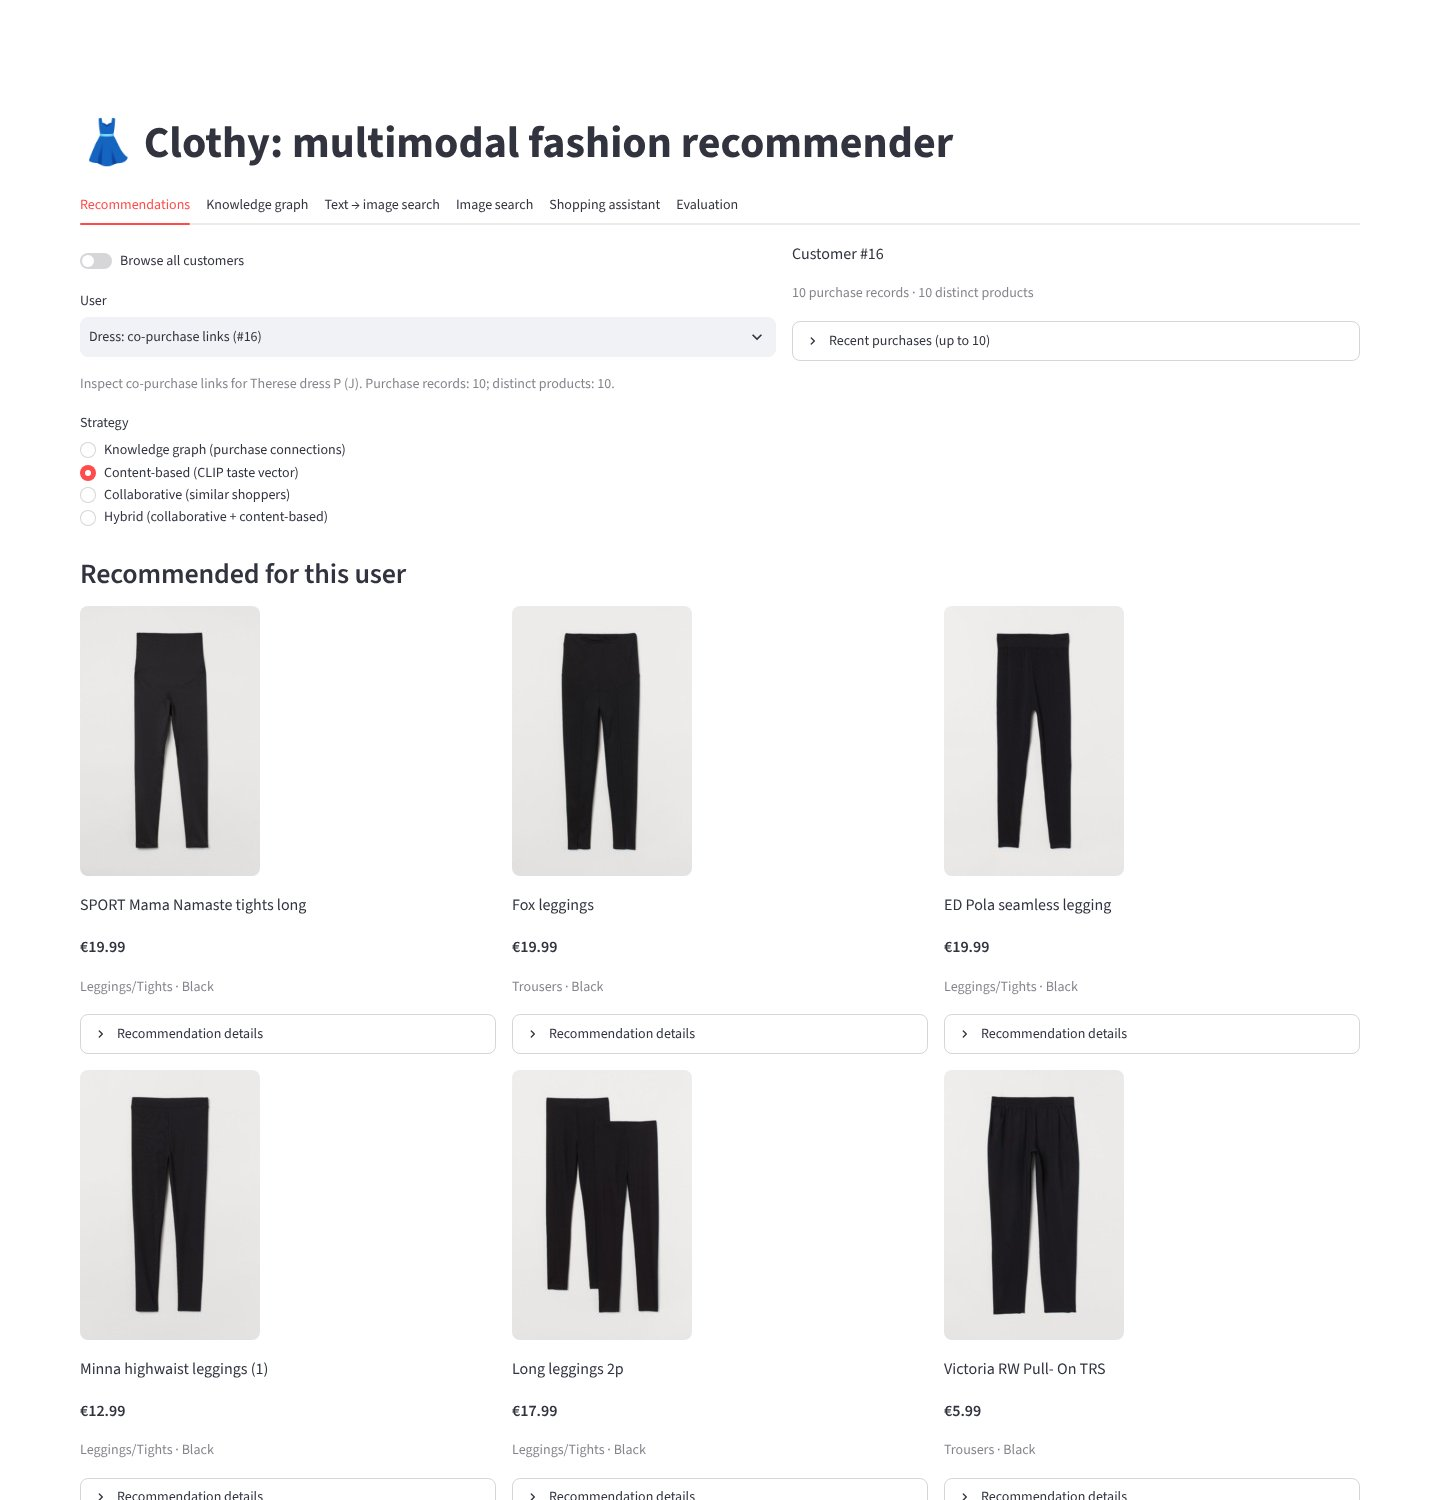
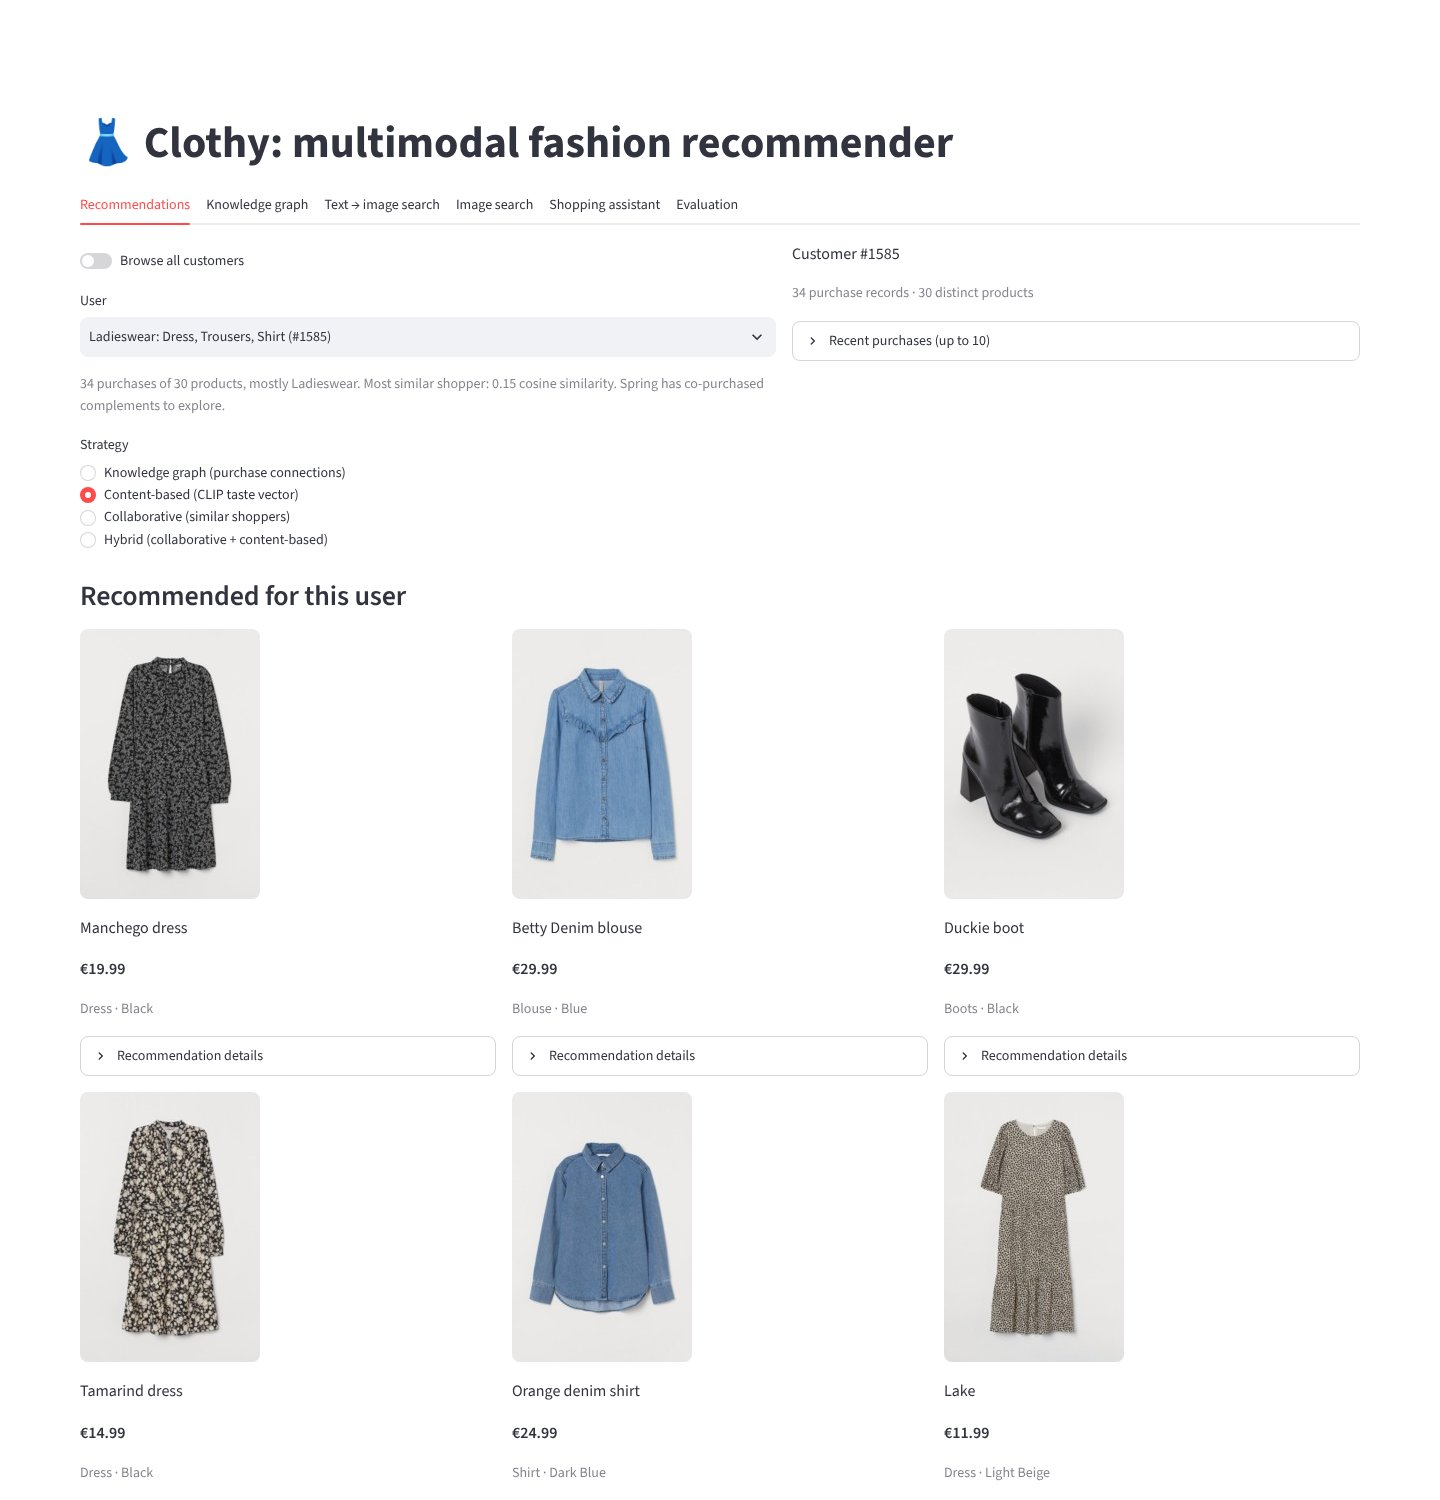
docs: MIT licence, example criteria and updated evaluation
Re-capture screenshots on a dress buyer and document the per-interest
content recommender, the example criteria and the new results.

diff --git a/README.md b/README.md
@@ -8,7 +8,7 @@ search, classic and graph recommendations, and an LLM shopping assistant:
 | Text-to-image search | The query is embedded with CLIP's text encoder and compared with the CLIP image embeddings of every product in Qdrant. |
 | Image search | An uploaded photo is embedded with CLIP's image encoder and compared the same way. Example photos show H&M garments outside the sampled catalog, so every match is a different product. |
 | Visually similar products | A product's own image embedding is the query (CLIP item-to-item), shown next to the graph's co-purchase complements and alternatives. |
-| Content-based recommendations | Each user has a *taste vector*, the recency-weighted mean of the embeddings of the products they bought. It is searched within the broad product groups the user buys most, excluding past purchases. |
+| Content-based recommendations | One *taste vector* per interest: for each of the three product groups a user buys most (e.g. dresses, leggings), the recency-weighted mean of those purchases' image embeddings, searched within that group and the sections it was bought from. Groups get slots by weight, so a dress buyer who also buys leggings sees both. |
 | Collaborative recommendations | User-based collaborative filtering. Users are compared by cosine similarity on the sparse user × product purchase matrix, and each product is scored by the similarity-weighted votes of the nearest neighbours. |
 | Hybrid recommendations | Reciprocal rank fusion of the collaborative and content-based lists: who bought what, plus what it looks like. Each result names its rank in both lists. |
 | Graph recommendations | Past purchases seed an in-memory graph of co-purchases, Shopify categories and attributes. Shared attributes are weighted by inverse degree; each result includes its evidence. |
@@ -19,16 +19,19 @@ search, classic and graph recommendations, and an LLM shopping assistant:
 Users without usable purchase history get the products bought most in the last two weeks of
 data, which also fill collaborative lists that come up short.
 
-The demo opens with up to ten customer examples selected from the loaded data for useful
-purchase connections, specific product categories and varied shopping histories. Each has
-a descriptive label and a suggested product to explore. “Browse all customers” keeps every
-other customer accessible; no users are removed. These examples guide exploration and do
-not determine the offline evaluation cohort.
+The demo opens with ten real customers whose recommendations can be judged at a glance,
+two per section (Ladieswear, Divided, Menswear, Sport, Baby/Children). Each has a coherent
+history (6-30 products, at least 80% from one section), a similar shopper for collaborative
+filtering, a purchase with co-purchased complements for the graph, and a hybrid list that
+stays in their sections and covers their main product group. The checks only read the
+recommenders' output; nothing is tuned for these customers. "Browse all customers" keeps
+everyone else accessible, and the Evaluation tab scores all eligible customers.
 
 ## Screenshots
 
 Captured on the default sample (5,000 customers, 14,300 products) with
-`scripts/take_screenshots.py --example 1`, a customer who buys dresses and leggings.
+`scripts/take_screenshots.py --example 5`: customer #1585, who mostly buys dresses, plus
+shirts, trousers and boots.
 
 ### Recommendations: hybrid
 
@@ -44,8 +47,8 @@ The same customer under the [knowledge graph](docs/screenshots/recommendations-g
 ### Evaluation
 
 Trained on purchases before 2020-09-16, scored on what 819 customers bought in the
-following seven days. Content-based recommendations alone score below best-sellers, but
-fused with collaborative filtering they lift it from 1.75x to 2.06x the popularity baseline.
+following seven days. Fusing what similar shoppers bought with what the customer's
+purchases look like beats either alone: 2.15x the popularity baseline.
 
 ![Offline evaluation](docs/screenshots/evaluation.jpg)
 
@@ -262,16 +265,20 @@ the holdout week, 794 of them buying something new):
 
 | Strategy | MAP@12, new items | vs popularity | MAP@12, all purchases | Catalog coverage |
 |---|---|---|---|---|
-| Hybrid (collaborative + content-based) | 0.0103 | 2.06x | 0.0100 | 29.4% |
+| Hybrid (collaborative + content-based) | 0.0108 | 2.15x | 0.0104 | 32.6% |
 | Collaborative | 0.0088 | 1.75x | 0.0085 | 29.2% |
 | Knowledge graph | 0.0077 | 1.53x | 0.0074 | 26.8% |
+| Content-based | 0.0054 | 1.08x | 0.0052 | 32.4% |
 | Popularity | 0.0050 | 1.00x | 0.0049 | 0.1% |
-| Content-based | 0.0046 | 0.91x | 0.0044 | 25.5% |
 
-The hybrid pairing was chosen on this same holdout: collaborative + content-based scored
-better than collaborative + graph (0.0094) or all three (0.0096). RRF's constant stays at the
-standard 60 rather than the slightly better 10 (0.0110). With one sample and one holdout
-week, treat differences of a few percent as noise.
+Per-interest taste vectors replaced a single vector over all purchases, which averaged
+different garments into one look: content-based went from 0.0046 to 0.0054, the hybrid from
+0.0103 to 0.0108, and recommendations from a section the customer never bought from fell
+from 10% to none. The hybrid pairing was chosen on this same holdout, with the earlier
+content recommender: collaborative + content-based scored better than collaborative + graph
+(0.0094) or all three (0.0096). RRF's constant stays at the standard 60 rather than the
+slightly better 10 (0.0110). With one sample and one holdout week, treat differences of a
+few percent as noise.
 
 The last seven calendar days are held out. Popularity, collaborative filtering and
 co-purchase links are rebuilt using training purchases only; the evaluator never reuses
@@ -295,5 +302,5 @@ uv run pytest -m integration        # tests that download the real CLIP model
 uv run ruff check . && uv run ruff format --check .
 
 # Re-capture README screenshots (API + UI running; uses the local Google Chrome)
-uv run python -m scripts.take_screenshots --example 1 --skip-chat
+uv run python -m scripts.take_screenshots --example 5 --skip-chat
 ```

diff --git a/docs/session-handoff.md b/docs/session-handoff.md
@@ -23,11 +23,22 @@ downsizing. `build_index` embedded all 14,280 in about 5 minutes at 50 img/s on 
 - `evaluate --output` saves the JSON the Evaluation tab reads; the hybrid is evaluated
   whenever an image index is given.
 - Screenshots re-captured from the H&M sample; legacy and coming-soon captures removed.
+- MIT licence; history rewritten without commit trailers and without the old Amazon data.
 
 ## Evaluation (seven-day holdout, 819 customers)
 
-New-item MAP@12: hybrid 0.0103, collaborative 0.0088, graph 0.0077, popularity 0.0050,
-content-based 0.0046. The hybrid pairing was chosen on this holdout (see README).
+New-item MAP@12: hybrid 0.0108, collaborative 0.0088, graph 0.0077, content-based 0.0054,
+popularity 0.0050. The hybrid pairing was chosen on this holdout (see README).
+
+Content-based now uses one taste vector per product group, searched within the sections
+that group was bought from. The single averaged vector had turned a dress buyer's history
+into leggings and trousers, including menswear.
+
+## Demo examples
+
+Ten customers, two per section, chosen by the documented criteria in `demo.py` (coherent
+history, a similar shopper, co-purchase complements, a hybrid list within their sections).
+Choosing them takes about 12 s and now happens at API startup.
 
 ## Open items
 
